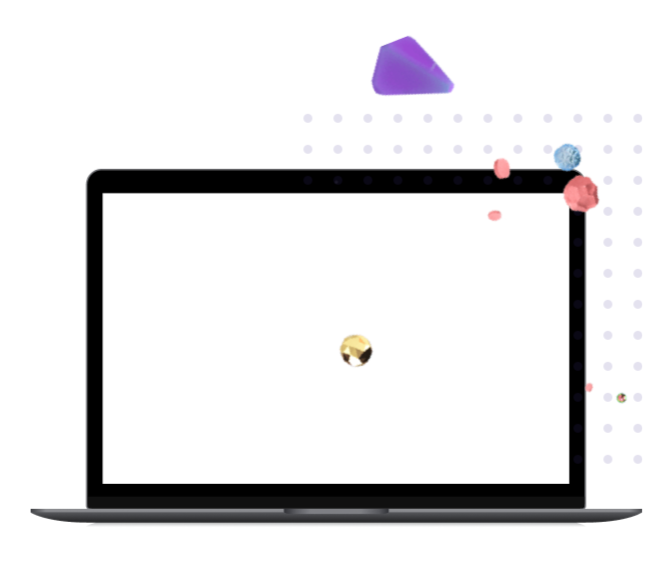
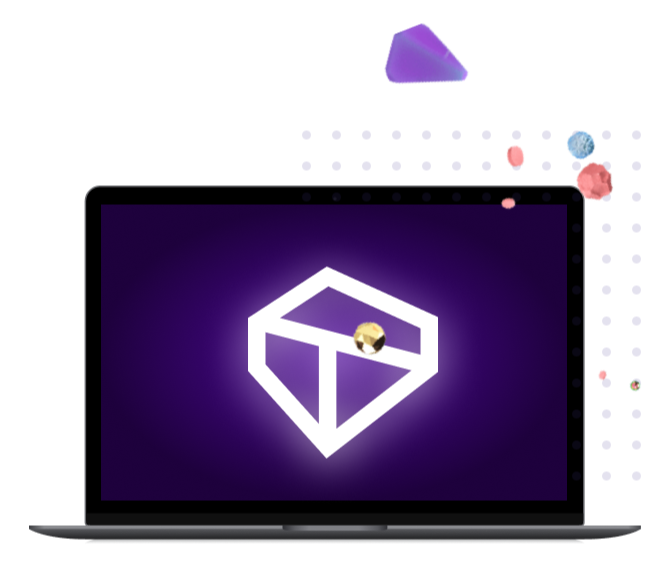
Updated image and font weight

diff --git a/src/theme/css/general.css b/src/theme/css/general.css
@@ -117,7 +117,7 @@ html {
     color: var(--fg);
     background-color: var(--bg);
     text-size-adjust: none;
-    font-weight: 600;
+    font-weight: 400;
 }
 
 body {

diff --git a/src/theme/css/chrome.css b/src/theme/css/chrome.css
@@ -15,7 +15,7 @@ a:visited,
 a > .hljs {
     /*color: var(--links);*/
     color: #6416B8;
-    font-weight:700;
+    font-weight:500;
 }
 
 /* Menu Bar */
